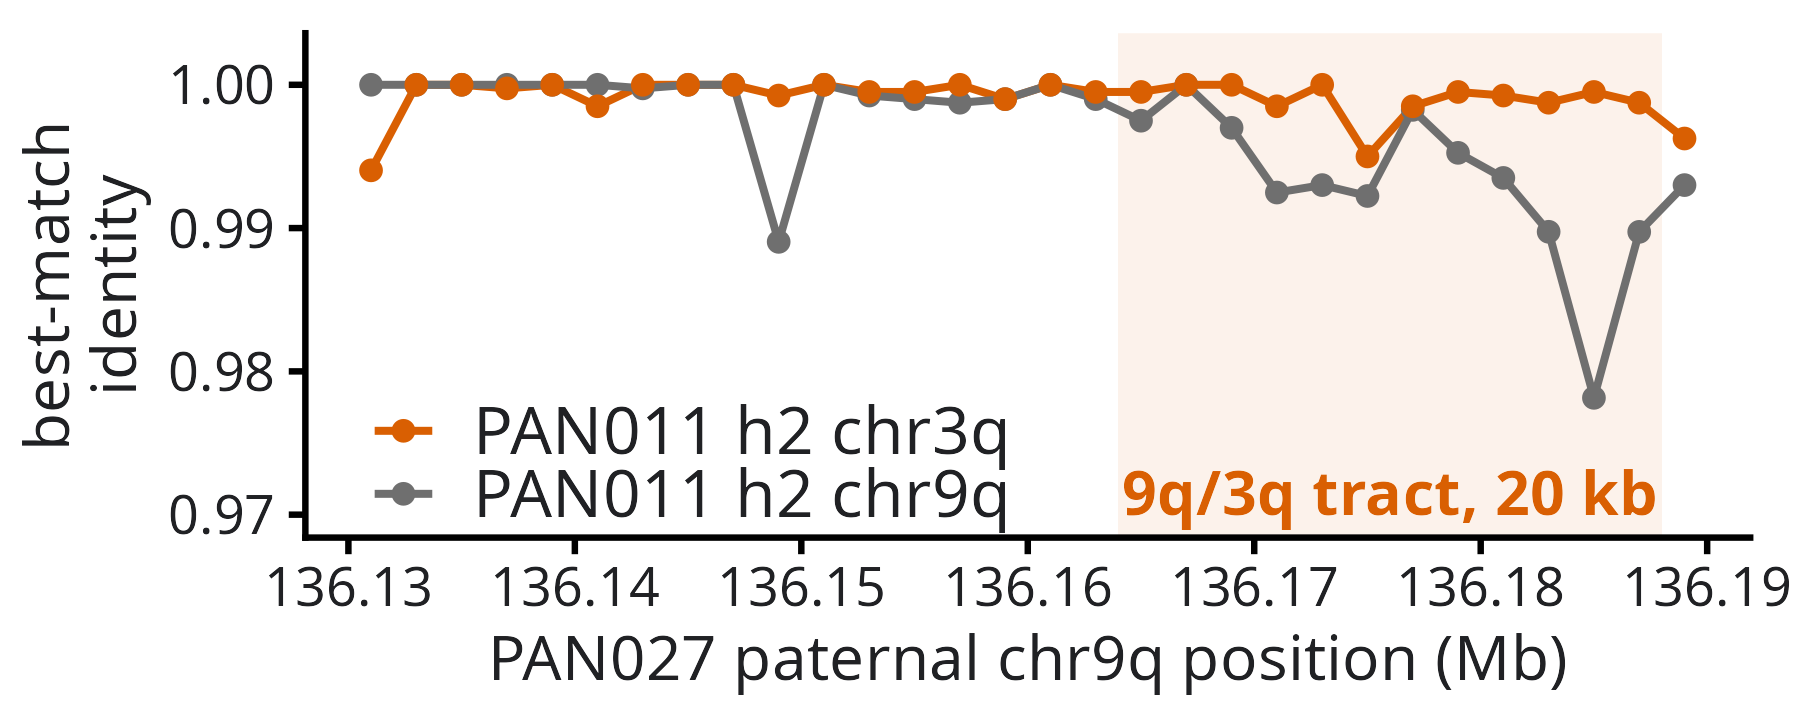
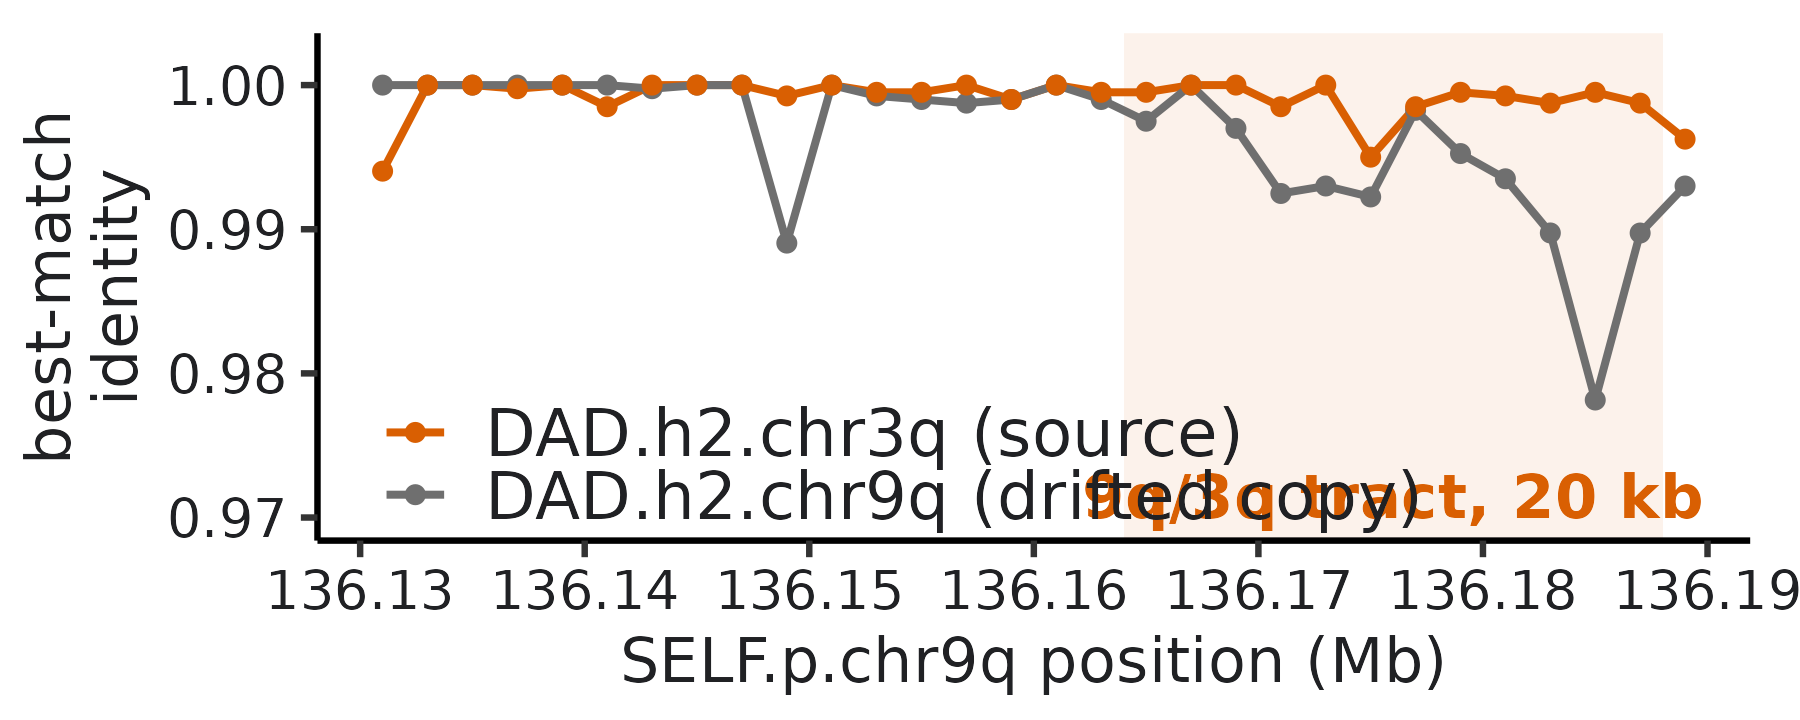
fig5: regenerate panel B with naming convention (SELF.p / DAD.h2 source vs drifted); retire KID-side zoom config; relabel ribbon script and drop maternal/KID panels (agent-055)

diff --git a/RESPONSE_CHANGELOG.md b/RESPONSE_CHANGELOG.md
@@ -32,6 +32,8 @@ PARTNER=KID's father, unsampled).
 | 7 | Methods: Fig5C--E references reduced to C | same |
 | 8 | Evidence record with all numbers, retractions and revisions rev 1-12 | `REVIEWS.txt` |
 | 9 | Canonical naming + per-chromosome maternal table | `PEDIGREE_NAMING.md` |
+| 11 | **Fig5B regenerated** with the naming convention: axis `SELF.p.chr9q position (Mb)`, series `DAD.h2.chr3q (source)` and `DAD.h2.chr9q (drifted copy)`, tract shaded 20 kb; the retired KID 21p/4p panel removed from the script | `submission/fig/MainFigures/Fig5B_zoom9q3q.{pdf,png}`, `submission/scripts/figures/make_fig5_zoom.R` |
+| 12 | Fig5C ribbon script relabelled (`SELF.p (PAN027 paternal)`, `DAD.h1/h2`) and the maternal/KID gen calls removed; **regeneration blocked here: inkscape is not installed** | `submission/scripts/figures/make_fig5_panels.sh` |
 | 10 | New **Fig5D** pairwise-alignment panel built and added to the figure block + caption; asset, box coordinates and generator script committed | `submission/fig/MainFigures/Fig5D_pairwise_9q3q.{pdf,png}`, `Fig5D_highlights.tsv`, `submission/scripts/figures/make_fig5d_pairwise.sh` |
 
 ## Audit result: PAN028 label exposure (pending item 3, partially done)
@@ -177,9 +179,12 @@ during oogenesis and with the telomere bias of male meiotic recombination."
 
 ## Pending
 
-1. **Rebuild Fig5B/Fig5C**: `Fig5B_zoom9q3q.pdf` and `Fig5C_paternal.png` need
-   regenerating with the new labels (SELF.p, DAD.h1/h2); `Fig5A_pedigree.pdf`
-   should print the nickname/copy scheme. Fig5D (new) is already built.
+1. **Fig5C regeneration** (blocked: needs `inkscape`, not installed on this machine) -
+   run `submission/scripts/figures/make_fig5_panels.sh`. Fig5B and Fig5D are done;
+   `Fig5A_pedigree.pdf` should still print the nickname/copy scheme.
+   Optional for Fig5B: split the y-axis so the 1.000 plateau and the 0.993 dip are
+   visually separated (measured: same-chromosome 1.000 outside / 0.9933 inside the
+   tract; chr3q 0.99988 / 0.99937).
 2. **Retire or supplement the D/E assets**: `Fig5D_maternal.png`,
    `Fig5E_pan028.png`, and the scripts that produce them
    (`submission/scripts/figures/make_fig5_panels.sh`, `make_fig5_zoom.R`,
